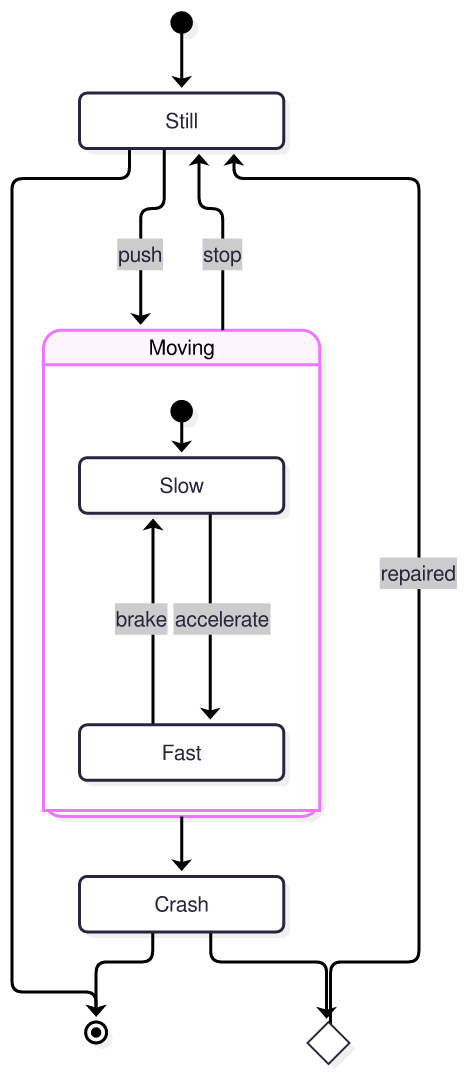
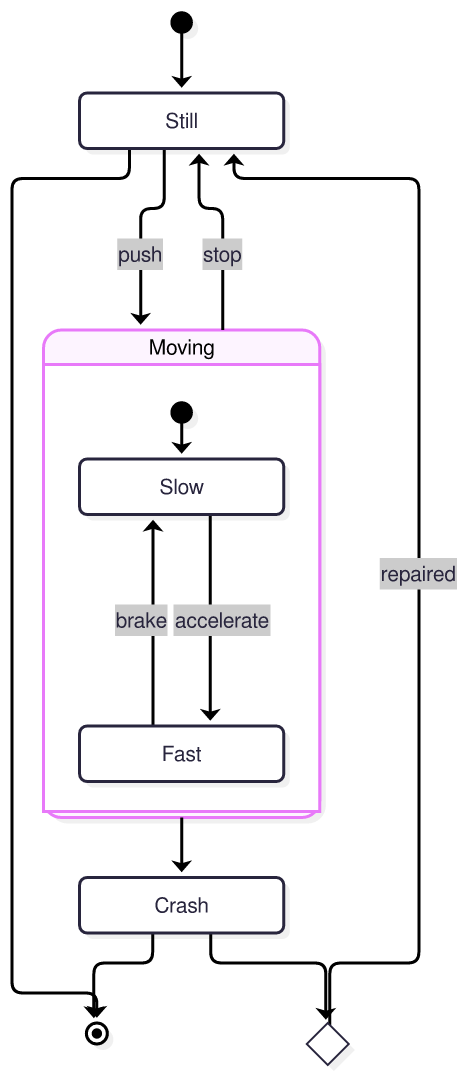
Regenerate gallery after ELK route, state and container-loop fixes
Claude-Session: https://claude.ai/code/session_01YSBvDqvT7DHspcB7hQZR6n

diff --git a/docs/GALLERY.md b/docs/GALLERY.md
@@ -5,7 +5,7 @@ Regenerate with `cargo run --release --example gallery`.
 
 ## agentflow
 
-Source: [`examples/diagrams/agentflow.mmd`](../examples/diagrams/agentflow.mmd) · rendered in 562.38µs
+Source: [`examples/diagrams/agentflow.mmd`](../examples/diagrams/agentflow.mmd) · rendered in 877.20µs
 
 <details><summary>source</summary>
 
@@ -37,7 +37,7 @@ agentflow-beta TB
 
 ## architecture
 
-Source: [`examples/diagrams/architecture.mmd`](../examples/diagrams/architecture.mmd) · rendered in 645.89µs
+Source: [`examples/diagrams/architecture.mmd`](../examples/diagrams/architecture.mmd) · rendered in 718.61µs
 
 <details><summary>source</summary>
 
@@ -74,7 +74,7 @@ architecture-beta
 
 ## block
 
-Source: [`examples/diagrams/block.mmd`](../examples/diagrams/block.mmd) · rendered in 236.36µs
+Source: [`examples/diagrams/block.mmd`](../examples/diagrams/block.mmd) · rendered in 222.08µs
 
 <details><summary>source</summary>
 
@@ -109,7 +109,7 @@ block-beta
 
 ## c4-container
 
-Source: [`examples/diagrams/c4-container.mmd`](../examples/diagrams/c4-container.mmd) · rendered in 416.03µs
+Source: [`examples/diagrams/c4-container.mmd`](../examples/diagrams/c4-container.mmd) · rendered in 462.00µs
 
 <details><summary>source</summary>
 
@@ -154,7 +154,7 @@ C4Container
 
 ## c4
 
-Source: [`examples/diagrams/c4.mmd`](../examples/diagrams/c4.mmd) · rendered in 489.88µs
+Source: [`examples/diagrams/c4.mmd`](../examples/diagrams/c4.mmd) · rendered in 481.88µs
 
 <details><summary>source</summary>
 
@@ -209,7 +209,7 @@ C4Context
 
 ## class
 
-Source: [`examples/diagrams/class.mmd`](../examples/diagrams/class.mmd) · rendered in 418.22µs
+Source: [`examples/diagrams/class.mmd`](../examples/diagrams/class.mmd) · rendered in 438.23µs
 
 <details><summary>source</summary>
 
@@ -249,7 +249,7 @@ classDiagram
 
 ## cynefin
 
-Source: [`examples/diagrams/cynefin.mmd`](../examples/diagrams/cynefin.mmd) · rendered in 145.78µs
+Source: [`examples/diagrams/cynefin.mmd`](../examples/diagrams/cynefin.mmd) · rendered in 169.63µs
 
 <details><summary>source</summary>
 
@@ -285,7 +285,7 @@ cynefin-beta
 
 ## er-subgraphs
 
-Source: [`examples/diagrams/er-subgraphs.mmd`](../examples/diagrams/er-subgraphs.mmd) · rendered in 442.30µs
+Source: [`examples/diagrams/er-subgraphs.mmd`](../examples/diagrams/er-subgraphs.mmd) · rendered in 493.60µs
 
 <details><summary>source</summary>
 
@@ -325,7 +325,7 @@ erDiagram
 
 ## er
 
-Source: [`examples/diagrams/er.mmd`](../examples/diagrams/er.mmd) · rendered in 376.20µs
+Source: [`examples/diagrams/er.mmd`](../examples/diagrams/er.mmd) · rendered in 608.01µs
 
 <details><summary>source</summary>
 
@@ -377,7 +377,7 @@ erDiagram
 
 ## eventmodeling
 
-Source: [`examples/diagrams/eventmodeling.mmd`](../examples/diagrams/eventmodeling.mmd) · rendered in 208.60µs
+Source: [`examples/diagrams/eventmodeling.mmd`](../examples/diagrams/eventmodeling.mmd) · rendered in 218.09µs
 
 <details><summary>source</summary>
 
@@ -401,7 +401,7 @@ tf 08 rmo CartItems ->> 03 ->> 07
 
 ## flowchart
 
-Source: [`examples/diagrams/flowchart.mmd`](../examples/diagrams/flowchart.mmd) · rendered in 419.16µs
+Source: [`examples/diagrams/flowchart.mmd`](../examples/diagrams/flowchart.mmd) · rendered in 536.98µs
 
 <details><summary>source</summary>
 
@@ -429,7 +429,7 @@ flowchart TD
 
 ## gantt
 
-Source: [`examples/diagrams/gantt.mmd`](../examples/diagrams/gantt.mmd) · rendered in 712.88µs
+Source: [`examples/diagrams/gantt.mmd`](../examples/diagrams/gantt.mmd) · rendered in 728.01µs
 
 <details><summary>source</summary>
 
@@ -469,7 +469,7 @@ gantt
 
 ## gitgraph
 
-Source: [`examples/diagrams/gitgraph.mmd`](../examples/diagrams/gitgraph.mmd) · rendered in 202.21µs
+Source: [`examples/diagrams/gitgraph.mmd`](../examples/diagrams/gitgraph.mmd) · rendered in 198.36µs
 
 <details><summary>source</summary>
 
@@ -507,7 +507,7 @@ gitGraph
 
 ## info
 
-Source: [`examples/diagrams/info.mmd`](../examples/diagrams/info.mmd) · rendered in 95.05µs
+Source: [`examples/diagrams/info.mmd`](../examples/diagrams/info.mmd) · rendered in 132.95µs
 
 <details><summary>source</summary>
 
@@ -521,7 +521,7 @@ info showInfo
 
 ## ishikawa
 
-Source: [`examples/diagrams/ishikawa.mmd`](../examples/diagrams/ishikawa.mmd) · rendered in 171.41µs
+Source: [`examples/diagrams/ishikawa.mmd`](../examples/diagrams/ishikawa.mmd) · rendered in 185.38µs
 
 <details><summary>source</summary>
 
@@ -554,7 +554,7 @@ ishikawa-beta
 
 ## journey
 
-Source: [`examples/diagrams/journey.mmd`](../examples/diagrams/journey.mmd) · rendered in 160.95µs
+Source: [`examples/diagrams/journey.mmd`](../examples/diagrams/journey.mmd) · rendered in 211.70µs
 
 <details><summary>source</summary>
 
@@ -579,7 +579,7 @@ journey
 
 ## kanban
 
-Source: [`examples/diagrams/kanban.mmd`](../examples/diagrams/kanban.mmd) · rendered in 400.84µs
+Source: [`examples/diagrams/kanban.mmd`](../examples/diagrams/kanban.mmd) · rendered in 459.19µs
 
 <details><summary>source</summary>
 
@@ -614,7 +614,7 @@ kanban
 
 ## mindmap
 
-Source: [`examples/diagrams/mindmap.mmd`](../examples/diagrams/mindmap.mmd) · rendered in 2.81ms
+Source: [`examples/diagrams/mindmap.mmd`](../examples/diagrams/mindmap.mmd) · rendered in 3.24ms
 
 <details><summary>source</summary>
 
@@ -652,7 +652,7 @@ mindmap
 
 ## packet
 
-Source: [`examples/diagrams/packet.mmd`](../examples/diagrams/packet.mmd) · rendered in 283.69µs
+Source: [`examples/diagrams/packet.mmd`](../examples/diagrams/packet.mmd) · rendered in 320.78µs
 
 <details><summary>source</summary>
 
@@ -686,7 +686,7 @@ packet-beta
 
 ## pie
 
-Source: [`examples/diagrams/pie.mmd`](../examples/diagrams/pie.mmd) · rendered in 116.58µs
+Source: [`examples/diagrams/pie.mmd`](../examples/diagrams/pie.mmd) · rendered in 129.92µs
 
 <details><summary>source</summary>
 
@@ -705,7 +705,7 @@ pie showData
 
 ## quadrant
 
-Source: [`examples/diagrams/quadrant.mmd`](../examples/diagrams/quadrant.mmd) · rendered in 164.52µs
+Source: [`examples/diagrams/quadrant.mmd`](../examples/diagrams/quadrant.mmd) · rendered in 173.42µs
 
 <details><summary>source</summary>
 
@@ -734,7 +734,7 @@ quadrantChart
 
 ## radar
 
-Source: [`examples/diagrams/radar.mmd`](../examples/diagrams/radar.mmd) · rendered in 164.76µs
+Source: [`examples/diagrams/radar.mmd`](../examples/diagrams/radar.mmd) · rendered in 181.27µs
 
 <details><summary>source</summary>
 
@@ -762,7 +762,7 @@ radar-beta
 
 ## railroad-abnf
 
-Source: [`examples/diagrams/railroad-abnf.mmd`](../examples/diagrams/railroad-abnf.mmd) · rendered in 180.14µs
+Source: [`examples/diagrams/railroad-abnf.mmd`](../examples/diagrams/railroad-abnf.mmd) · rendered in 270.86µs
 
 <details><summary>source</summary>
 
@@ -783,7 +783,7 @@ port = [ ":" ] 1*5DIGIT %x30-39 ;
 
 ## railroad-ir
 
-Source: [`examples/diagrams/railroad-ir.mmd`](../examples/diagrams/railroad-ir.mmd) · rendered in 165.35µs
+Source: [`examples/diagrams/railroad-ir.mmd`](../examples/diagrams/railroad-ir.mmd) · rendered in 263.10µs
 
 <details><summary>source</summary>
 
@@ -811,7 +811,7 @@ number = sequence(optional(terminal("-")), oneOrMore(nonterminal("digit")), spec
 
 ## railroad-peg
 
-Source: [`examples/diagrams/railroad-peg.mmd`](../examples/diagrams/railroad-peg.mmd) · rendered in 177.00µs
+Source: [`examples/diagrams/railroad-peg.mmd`](../examples/diagrams/railroad-peg.mmd) · rendered in 240.26µs
 
 <details><summary>source</summary>
 
@@ -832,7 +832,7 @@ Identifier <- !Keyword Letter Letter* . ;
 
 ## railroad
 
-Source: [`examples/diagrams/railroad.mmd`](../examples/diagrams/railroad.mmd) · rendered in 196.53µs
+Source: [`examples/diagrams/railroad.mmd`](../examples/diagrams/railroad.mmd) · rendered in 265.33µs
 
 <details><summary>source</summary>
 
@@ -854,7 +854,7 @@ string = '"' { ? any character except quote ? } '"' ;
 
 ## requirement
 
-Source: [`examples/diagrams/requirement.mmd`](../examples/diagrams/requirement.mmd) · rendered in 507.41µs
+Source: [`examples/diagrams/requirement.mmd`](../examples/diagrams/requirement.mmd) · rendered in 561.49µs
 
 <details><summary>source</summary>
 
@@ -936,7 +936,7 @@ requirementDiagram
 
 ## sankey
 
-Source: [`examples/diagrams/sankey.mmd`](../examples/diagrams/sankey.mmd) · rendered in 420.34µs
+Source: [`examples/diagrams/sankey.mmd`](../examples/diagrams/sankey.mmd) · rendered in 522.11µs
 
 <details><summary>source</summary>
 
@@ -981,7 +981,7 @@ Electricity grid,"Heating and cooling, homes",42.0
 
 ## sequence
 
-Source: [`examples/diagrams/sequence.mmd`](../examples/diagrams/sequence.mmd) · rendered in 204.57µs
+Source: [`examples/diagrams/sequence.mmd`](../examples/diagrams/sequence.mmd) · rendered in 269.63µs
 
 <details><summary>source</summary>
 
@@ -1016,7 +1016,7 @@ sequenceDiagram
 
 ## shapes
 
-Source: [`examples/diagrams/shapes.mmd`](../examples/diagrams/shapes.mmd) · rendered in 1.11ms
+Source: [`examples/diagrams/shapes.mmd`](../examples/diagrams/shapes.mmd) · rendered in 1.38ms
 
 <details><summary>source</summary>
 
@@ -1052,7 +1052,7 @@ flowchart LR
 
 ## state
 
-Source: [`examples/diagrams/state.mmd`](../examples/diagrams/state.mmd) · rendered in 507.76µs
+Source: [`examples/diagrams/state.mmd`](../examples/diagrams/state.mmd) · rendered in 500.33µs
 
 <details><summary>source</summary>
 
@@ -1080,7 +1080,7 @@ stateDiagram-v2
 
 ## subgraph-collapse
 
-Source: [`examples/diagrams/subgraph-collapse.mmd`](../examples/diagrams/subgraph-collapse.mmd) · rendered in 441.16µs
+Source: [`examples/diagrams/subgraph-collapse.mmd`](../examples/diagrams/subgraph-collapse.mmd) · rendered in 661.51µs
 
 <details><summary>source</summary>
 
@@ -1110,7 +1110,7 @@ flowchart LR
 
 ## subgraphs
 
-Source: [`examples/diagrams/subgraphs.mmd`](../examples/diagrams/subgraphs.mmd) · rendered in 747.25µs
+Source: [`examples/diagrams/subgraphs.mmd`](../examples/diagrams/subgraphs.mmd) · rendered in 771.43µs
 
 <details><summary>source</summary>
 
@@ -1141,7 +1141,7 @@ flowchart LR
 
 ## swimlane
 
-Source: [`examples/diagrams/swimlane.mmd`](../examples/diagrams/swimlane.mmd) · rendered in 290.14µs
+Source: [`examples/diagrams/swimlane.mmd`](../examples/diagrams/swimlane.mmd) · rendered in 424.56µs
 
 <details><summary>source</summary>
 
@@ -1171,7 +1171,7 @@ swimlane-beta LR
 
 ## timeline
 
-Source: [`examples/diagrams/timeline.mmd`](../examples/diagrams/timeline.mmd) · rendered in 279.45µs
+Source: [`examples/diagrams/timeline.mmd`](../examples/diagrams/timeline.mmd) · rendered in 300.61µs
 
 <details><summary>source</summary>
 
@@ -1196,7 +1196,7 @@ timeline
 
 ## treemap
 
-Source: [`examples/diagrams/treemap.mmd`](../examples/diagrams/treemap.mmd) · rendered in 202.22µs
+Source: [`examples/diagrams/treemap.mmd`](../examples/diagrams/treemap.mmd) · rendered in 215.61µs
 
 <details><summary>source</summary>
 
@@ -1233,7 +1233,7 @@ classDef highlight fill:#ffd166,stroke:#c77d00,color:#000
 
 ## treeview
 
-Source: [`examples/diagrams/treeview.mmd`](../examples/diagrams/treeview.mmd) · rendered in 130.67µs
+Source: [`examples/diagrams/treeview.mmd`](../examples/diagrams/treeview.mmd) · rendered in 133.10µs
 
 <details><summary>source</summary>
 
@@ -1259,7 +1259,7 @@ treeView-beta
 
 ## usecase
 
-Source: [`examples/diagrams/usecase.mmd`](../examples/diagrams/usecase.mmd) · rendered in 547.06µs
+Source: [`examples/diagrams/usecase.mmd`](../examples/diagrams/usecase.mmd) · rendered in 603.41µs
 
 <details><summary>source</summary>
 
@@ -1303,7 +1303,7 @@ style pays stroke:#6b46c1,stroke-width:2px
 
 ## venn
 
-Source: [`examples/diagrams/venn.mmd`](../examples/diagrams/venn.mmd) · rendered in 564.15µs
+Source: [`examples/diagrams/venn.mmd`](../examples/diagrams/venn.mmd) · rendered in 321.07µs
 
 <details><summary>source</summary>
 
@@ -1327,7 +1327,7 @@ venn-beta
 
 ## wardley
 
-Source: [`examples/diagrams/wardley.mmd`](../examples/diagrams/wardley.mmd) · rendered in 174.28µs
+Source: [`examples/diagrams/wardley.mmd`](../examples/diagrams/wardley.mmd) · rendered in 210.69µs
 
 <details><summary>source</summary>
 
@@ -1376,7 +1376,7 @@ note "Migrate to cloud-native database" [0.60, 0.50]
 
 ## xychart
 
-Source: [`examples/diagrams/xychart.mmd`](../examples/diagrams/xychart.mmd) · rendered in 186.91µs
+Source: [`examples/diagrams/xychart.mmd`](../examples/diagrams/xychart.mmd) · rendered in 195.07µs
 
 <details><summary>source</summary>
 
@@ -1396,7 +1396,7 @@ xychart-beta
 
 ## zenuml
 
-Source: [`examples/diagrams/zenuml.mmd`](../examples/diagrams/zenuml.mmd) · rendered in 371.32µs
+Source: [`examples/diagrams/zenuml.mmd`](../examples/diagrams/zenuml.mmd) · rendered in 304.28µs
 
 <details><summary>source</summary>
 
